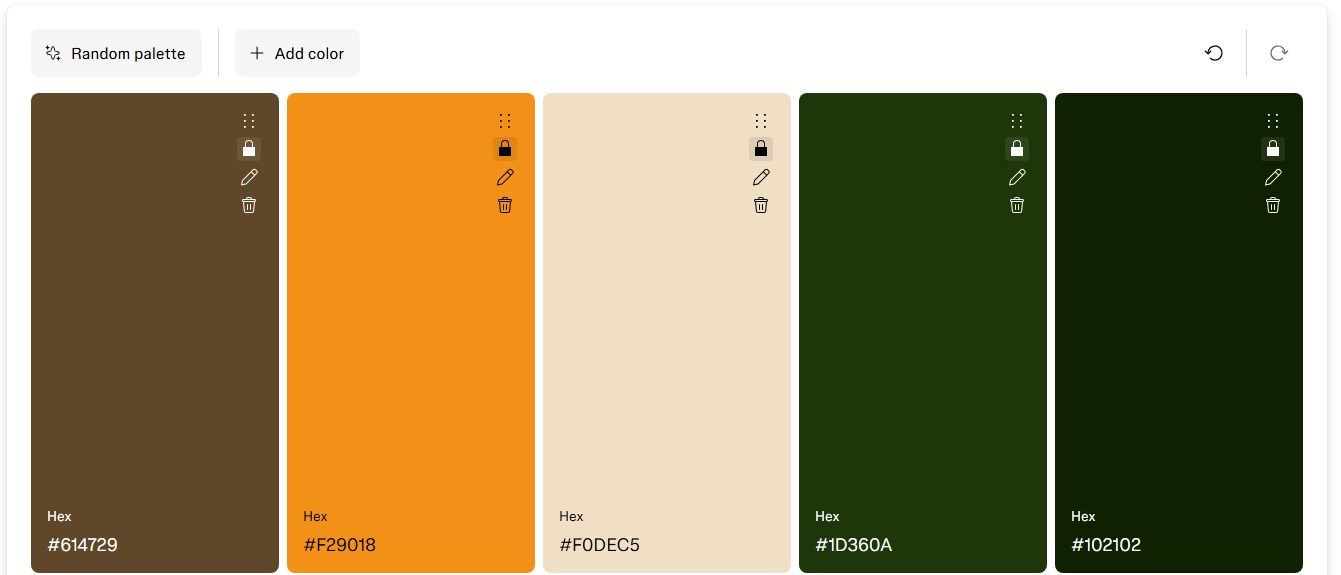
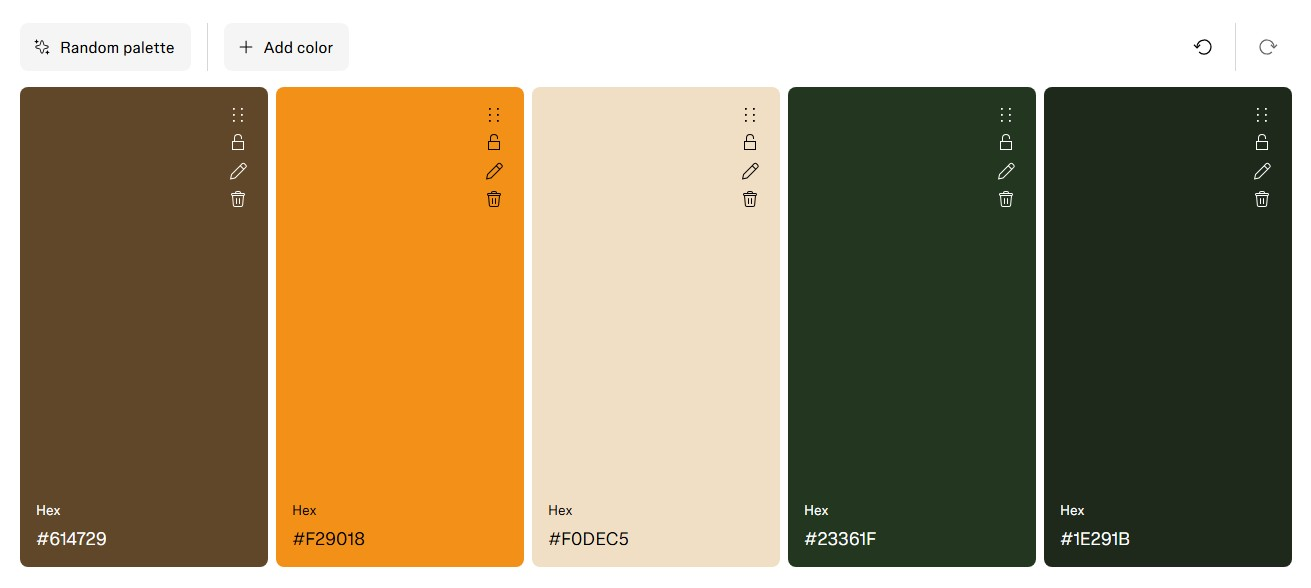
Update to the new lighter green palette
Swaps --bg/--navy-deep to #1E291B and --surface/--navy/--surface-alt
to #23361F (from #102102/#1D360A), and updates every place those
greens were hardcoded outside the CSS variables (loader background,
hero gradient, scrolled-header overlay, mobile nav panel, CTA banner)
so nothing was left on the old colors.

diff --git a/style.css b/style.css
@@ -1,16 +1,16 @@
 :root {
   color-scheme: dark;
 
-  --bg: #102102;
-  --surface: #1D360A;
-  --surface-alt: #16350D;
+  --bg: #1E291B;
+  --surface: #23361F;
+  --surface-alt: #23361F;
   --ink: #F0DEC5;
   --ink-soft: #D6C4A8;
   --ink-faint: rgba(240, 222, 197, 0.72);
   --line: rgba(255, 255, 255, 0.1);
 
-  --navy: #1D360A;
-  --navy-deep: #102102;
+  --navy: #23361F;
+  --navy-deep: #1E291B;
   --amber: #F29018;
   --amber-deep: #c9640e;
   --green: #614729;
@@ -106,7 +106,7 @@ html.is-loading { overflow: hidden; }
   align-items: center;
   justify-content: center;
   gap: 1.25rem;
-  background: #102102;
+  background: var(--bg);
   opacity: 1;
   visibility: visible;
   transition: opacity 0.5s var(--ease), visibility 0.5s var(--ease);
@@ -198,7 +198,7 @@ html.is-loading { overflow: hidden; }
 }
 
 .site-header.scrolled {
-  background: rgba(16, 32, 2, 0.94);
+  background: rgba(30, 41, 27, 0.94);
   border-bottom-color: rgba(255, 255, 255, 0.08);
 }
 
@@ -385,7 +385,7 @@ html.is-loading { overflow: hidden; }
   background:
     radial-gradient(circle at 18% 20%, rgba(242, 144, 24, 0.18), transparent 35%),
     radial-gradient(circle at 82% 78%, rgba(97, 71, 41, 0.12), transparent 45%),
-    linear-gradient(180deg, #102102 0%, #16350D 100%);
+    linear-gradient(180deg, var(--bg) 0%, var(--surface-alt) 100%);
   z-index: -2;
 }
 
@@ -394,8 +394,8 @@ html.is-loading { overflow: hidden; }
   position: absolute;
   inset: 0;
   background-image:
-    linear-gradient(rgba(16, 33, 10, 0.06) 1px, transparent 1px),
-    linear-gradient(90deg, rgba(16, 33, 10, 0.06) 1px, transparent 1px);
+    linear-gradient(rgba(30, 41, 27, 0.06) 1px, transparent 1px),
+    linear-gradient(90deg, rgba(30, 41, 27, 0.06) 1px, transparent 1px);
   background-size: 56px 56px;
   mask-image: radial-gradient(ellipse 80% 60% at 50% 40%, black 40%, transparent 90%);
   z-index: -1;
@@ -658,7 +658,7 @@ html.is-loading { overflow: hidden; }
     top: 100%;
     left: 0;
     right: 0;
-    background: rgba(16, 32, 2, 0.96);
+    background: rgba(30, 41, 27, 0.96);
     border-bottom: 1px solid rgba(255, 255, 255, 0.08);
     display: none;
     flex-direction: column;
@@ -837,7 +837,7 @@ html.is-loading { overflow: hidden; }
 .cta-banner {
   max-width: none;
   text-align: center;
-  background: linear-gradient(135deg, #102102, #1D360A);
+  background: linear-gradient(135deg, var(--bg), var(--surface));
   border-radius: 0;
   padding: clamp(3rem, 7vw, 5rem) 1.5rem;
 }
